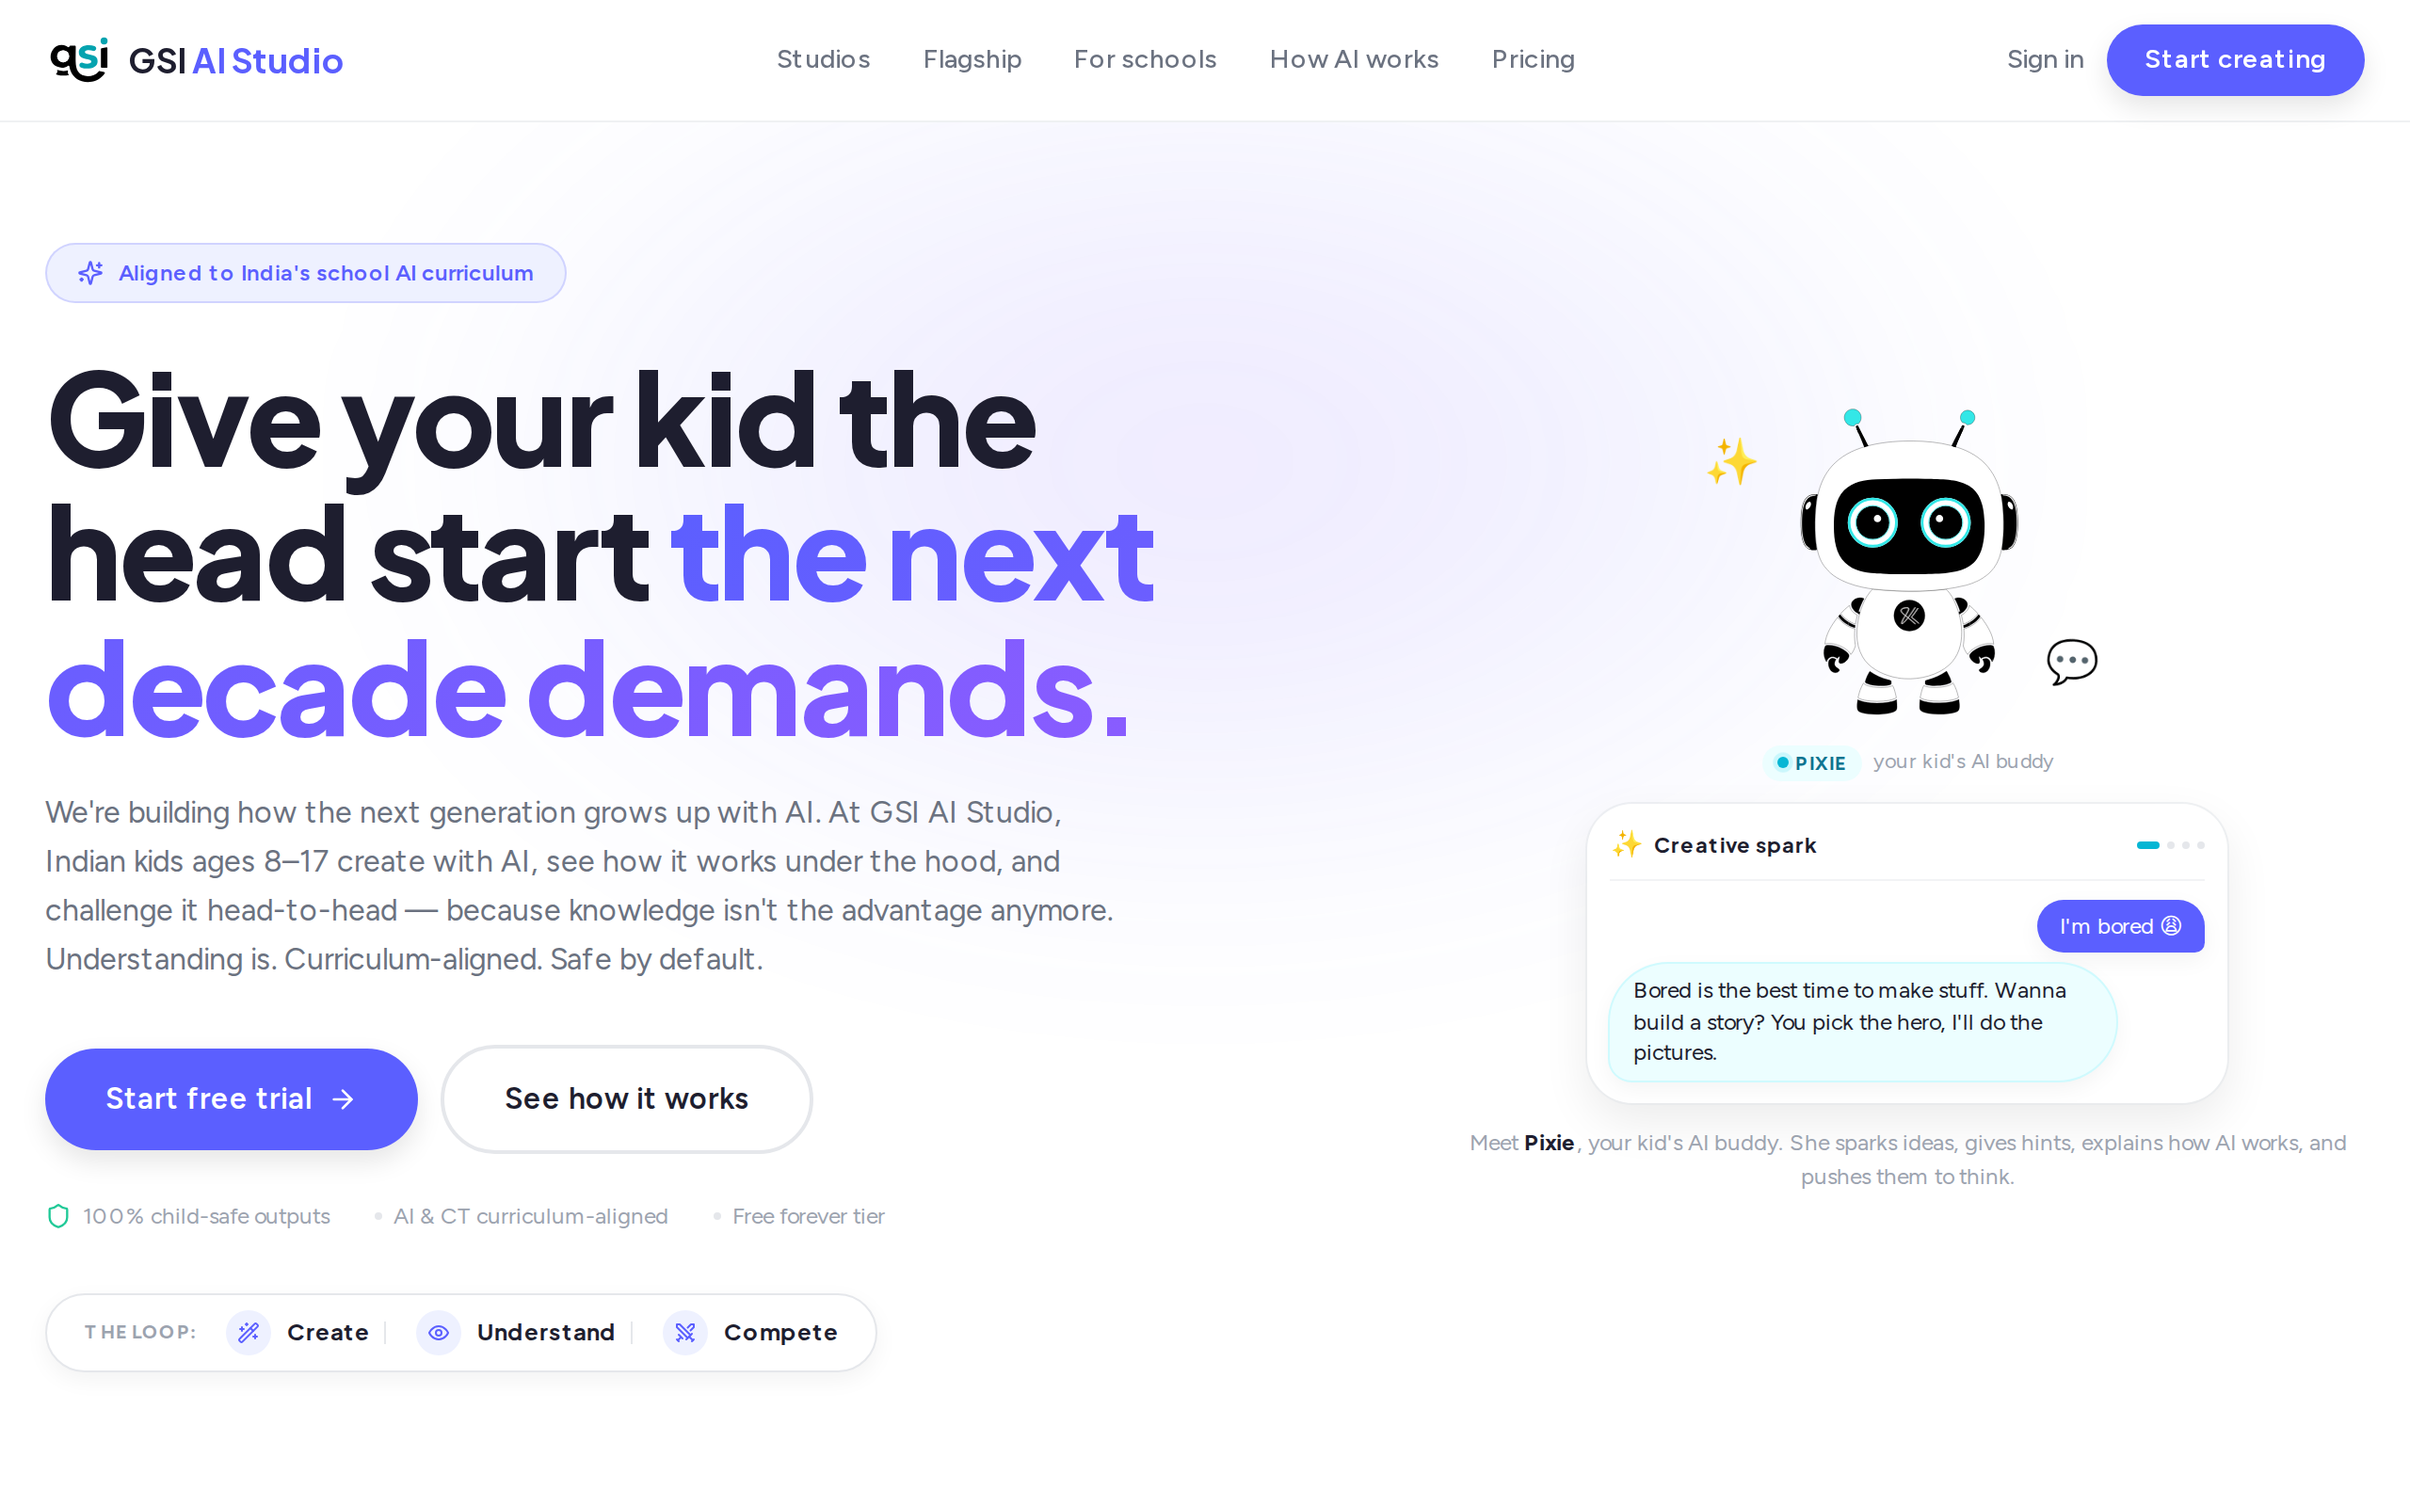
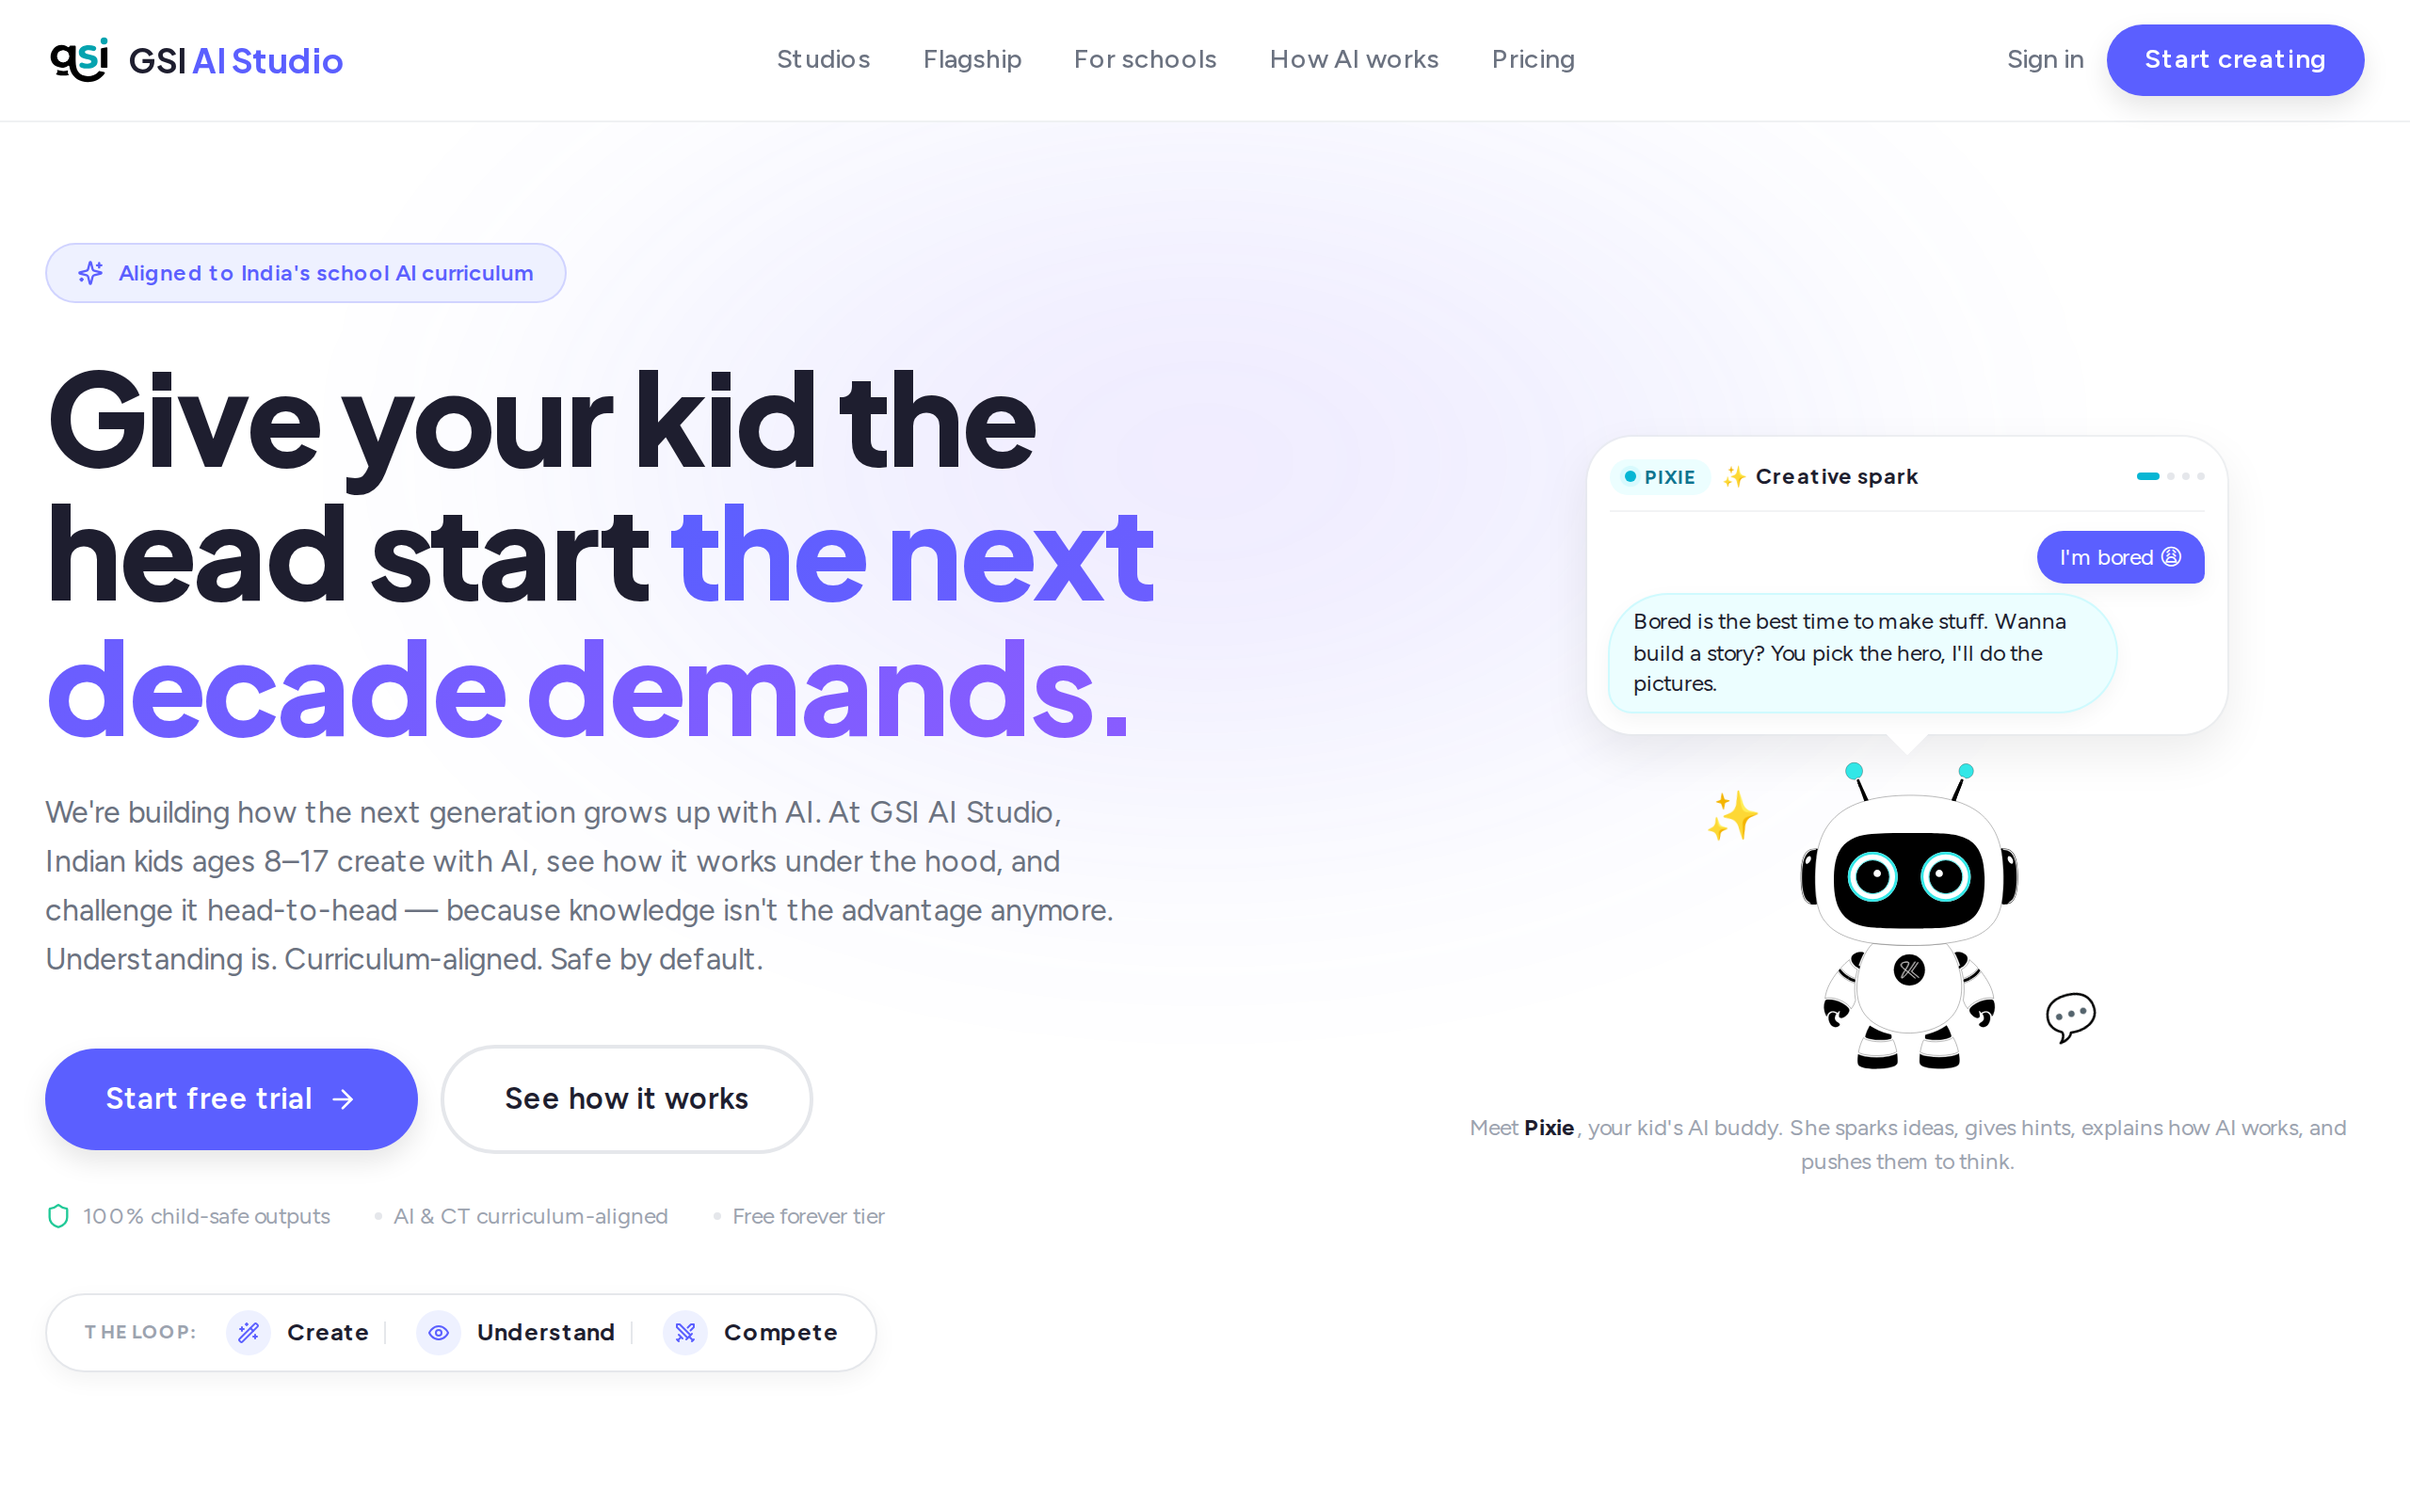
MARKETING-HERO: speech bubble on top, Pixie below — bubble points to her
Reorder the hero column so the chat panel sits above Pixie with a tail
pointing down to her. The conversation now visually feels like Pixie's
speech, not a generic chat UI.

Changes:
- Chat panel moves to the top of the column
- Pixie moves below, gets a tail pointing down to her from the bubble
- Identity tag (PIXIE + live dot) folded into the chat panel's header
  alongside the scene label, so the panel is self-contained
- Halo gradient repositioned to sit behind Pixie (bottom of column)
- Caption moved beneath Pixie as the closing line

Visual hierarchy now reads: "Pixie says ..." → see the conversation →
meet Pixie below.

Changed region(s): [[0.6562, 0.2812, 0.9375, 0.7188], [0.5938, 0.75, 0.9688, 0.7812]]

diff --git a/components/marketing/Hero.tsx b/components/marketing/Hero.tsx
@@ -242,80 +242,43 @@ function BrandMascotHero() {
       transition={{ duration: 0.7, ease: 'easeOut' }}
       className="relative mx-auto flex w-full max-w-md flex-col items-center gap-3 lg:max-w-none"
     >
-      {/* Soft halo glow behind Pixie */}
+      {/* Soft halo glow centred on Pixie (lower in the column) */}
       <div
         aria-hidden
-        className="pointer-events-none absolute -top-2 left-1/2 -z-10 h-[260px] w-[400px] -translate-x-1/2 rounded-full opacity-65 blur-3xl"
+        className="pointer-events-none absolute bottom-12 left-1/2 -z-10 h-[280px] w-[420px] -translate-x-1/2 rounded-full opacity-65 blur-3xl"
         style={{
           background:
             'radial-gradient(ellipse at center, rgba(91,179,255,0.35), rgba(138,92,255,0.18) 45%, transparent 75%)',
         }}
       />
 
-      {/* Pixie — sits free, with subtle bob */}
-      <motion.div
-        animate={{ y: [0, -5, 0] }}
-        transition={{ duration: 4.5, repeat: Infinity, ease: 'easeInOut' }}
-        className="relative"
-      >
-        <MascotAvatar
-          id={mascot.id}
-          size="2xl"
-          ariaLabel={`${mascot.name} — GSI brand mascot`}
-        />
-
-        {/* Sparkle accents */}
-        <motion.span
-          aria-hidden
-          animate={{ rotate: [0, 18, -10, 0], scale: [1, 1.15, 1] }}
-          transition={{ duration: 3.5, repeat: Infinity, ease: 'easeInOut' }}
-          className="absolute -left-7 top-2 text-2xl"
-        >
-          ✨
-        </motion.span>
-        <motion.span
-          aria-hidden
-          animate={{ rotate: [0, -18, 10, 0], scale: [1, 1.15, 1] }}
-          transition={{ duration: 4, repeat: Infinity, ease: 'easeInOut', delay: 1.2 }}
-          className="absolute -right-5 bottom-4 text-xl"
-        >
-          💬
-        </motion.span>
-      </motion.div>
-
-      {/* Identity tag — Pixie name + live indicator */}
-      <div className="flex items-center gap-1.5">
-        <span className="flex items-center gap-1 rounded-full bg-cyan-50 px-2 py-0.5 text-[10px] font-bold uppercase tracking-wide text-cyan-700">
-          <span className="relative flex h-1.5 w-1.5">
-            <span className="absolute inline-flex h-full w-full animate-ping rounded-full bg-cyan-400 opacity-75" />
-            <span className="relative inline-flex h-1.5 w-1.5 rounded-full bg-cyan-500" />
-          </span>
-          {mascot.name}
-        </span>
-        <span className="text-[11px] text-brand-text-muted">your kid&apos;s AI buddy</span>
-      </div>
-
-      {/* Mini chat demo — cycles through 4 scenarios showing Pixie's 4 roles */}
-      <div className="w-full max-w-[340px] rounded-3xl bg-white p-3 shadow-card ring-1 ring-brand-border/60">
-        {/* Scene label tab */}
-        <div className="flex items-center justify-between border-b border-brand-border/50 pb-2">
-          <AnimatePresence mode="wait">
-            <motion.div
-              key={`label-${sceneIdx}`}
-              initial={{ opacity: 0, x: -6 }}
-              animate={{ opacity: 1, x: 0 }}
-              exit={{ opacity: 0, x: 6 }}
-              transition={{ duration: 0.3 }}
-              className="flex items-center gap-1.5"
-            >
-              <span className="text-sm">{scene.badge}</span>
-              <span className="font-display text-[11px] font-bold text-brand-text">
-                {scene.label}
+      {/* Speech bubble (chat demo) — sits ABOVE Pixie, with a tail pointing down to her */}
+      <div className="relative w-full max-w-[340px] rounded-3xl bg-white p-3 shadow-card ring-1 ring-brand-border/60">
+        {/* Header row: Pixie identity + scene label/dots */}
+        <div className="flex items-center justify-between gap-2 border-b border-brand-border/50 pb-2">
+          <div className="flex items-center gap-1.5">
+            <span className="flex items-center gap-1 rounded-full bg-cyan-50 px-2 py-0.5 text-[10px] font-bold uppercase tracking-wide text-cyan-700">
+              <span className="relative flex h-1.5 w-1.5">
+                <span className="absolute inline-flex h-full w-full animate-ping rounded-full bg-cyan-400 opacity-75" />
+                <span className="relative inline-flex h-1.5 w-1.5 rounded-full bg-cyan-500" />
               </span>
-            </motion.div>
-          </AnimatePresence>
-          {/* Scene dots — show progression */}
-          <div className="flex items-center gap-1">
+              {mascot.name}
+            </span>
+            <AnimatePresence mode="wait">
+              <motion.span
+                key={`label-${sceneIdx}`}
+                initial={{ opacity: 0, x: -6 }}
+                animate={{ opacity: 1, x: 0 }}
+                exit={{ opacity: 0, x: 6 }}
+                transition={{ duration: 0.3 }}
+                className="flex items-center gap-1 font-display text-[11px] font-bold text-brand-text"
+              >
+                <span>{scene.badge}</span>
+                <span>{scene.label}</span>
+              </motion.span>
+            </AnimatePresence>
+          </div>
+          <div className="flex shrink-0 items-center gap-1">
             {PIXIE_DEMO_SCENES.map((s, i) => (
               <span
                 key={s.id}
@@ -342,10 +305,48 @@ function BrandMascotHero() {
             ))}
           </motion.div>
         </AnimatePresence>
+
+        {/* Tail — points down from the bubble toward Pixie */}
+        <div
+          aria-hidden
+          className="absolute -bottom-2 left-1/2 h-4 w-4 -translate-x-1/2 rotate-45 bg-white ring-1 ring-brand-border/60"
+          style={{ clipPath: 'polygon(100% 0, 100% 100%, 0 100%)' }}
+        />
       </div>
 
+      {/* Pixie — sits BELOW the speech bubble, with subtle bob */}
+      <motion.div
+        animate={{ y: [0, -5, 0] }}
+        transition={{ duration: 4.5, repeat: Infinity, ease: 'easeInOut' }}
+        className="relative mt-3"
+      >
+        <MascotAvatar
+          id={mascot.id}
+          size="2xl"
+          ariaLabel={`${mascot.name} — GSI brand mascot`}
+        />
+
+        {/* Sparkle accents */}
+        <motion.span
+          aria-hidden
+          animate={{ rotate: [0, 18, -10, 0], scale: [1, 1.15, 1] }}
+          transition={{ duration: 3.5, repeat: Infinity, ease: 'easeInOut' }}
+          className="absolute -left-7 top-2 text-2xl"
+        >
+          ✨
+        </motion.span>
+        <motion.span
+          aria-hidden
+          animate={{ rotate: [0, -18, 10, 0], scale: [1, 1.15, 1] }}
+          transition={{ duration: 4, repeat: Infinity, ease: 'easeInOut', delay: 1.2 }}
+          className="absolute -right-5 bottom-4 text-xl"
+        >
+          💬
+        </motion.span>
+      </motion.div>
+
       {/* Caption */}
-      <p className="text-center text-caption text-brand-text-muted">
+      <p className="mt-1 text-center text-caption text-brand-text-muted">
         Meet <span className="font-bold text-brand-text">{mascot.name}</span>, your kid&apos;s AI buddy. She sparks ideas, gives hints, explains how AI works, and pushes them to think.
       </p>
     </motion.div>
